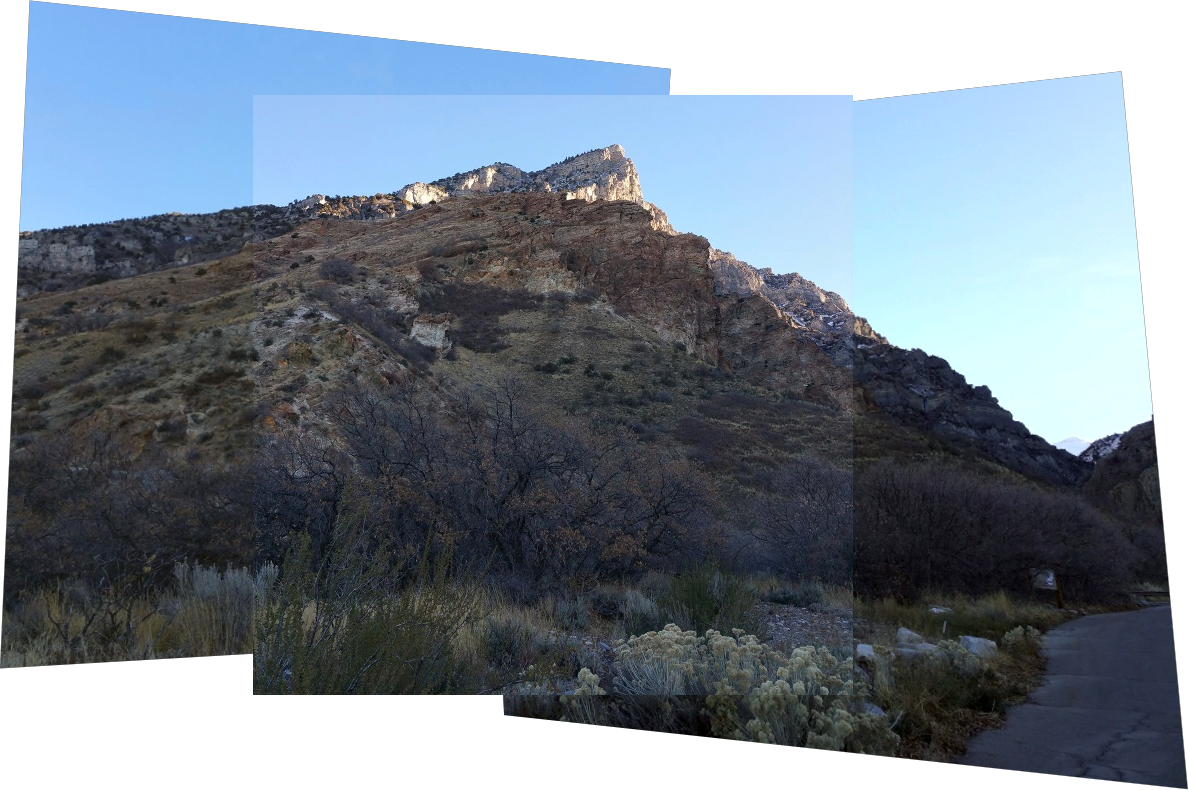
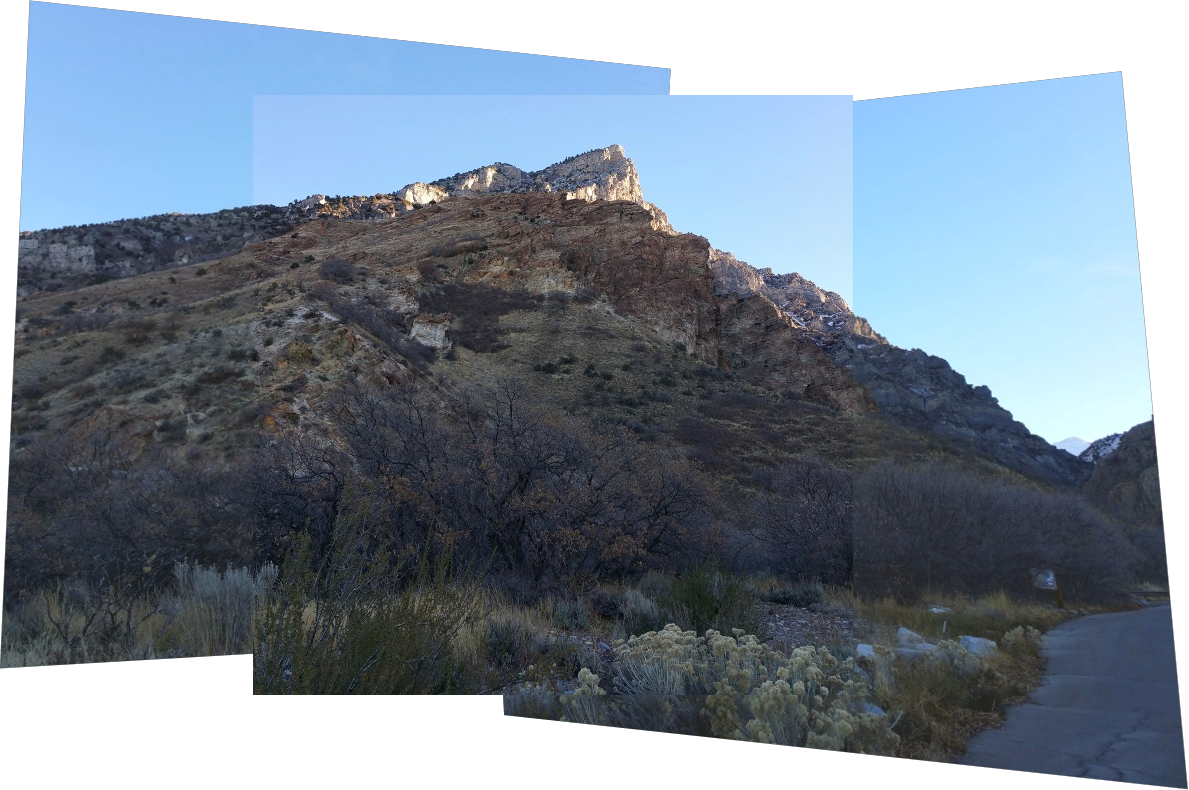
Fix color correction

Changed region(s): [[0.4045, 0.4253, 1.0, 1.0], [0.7157, 0.1215, 0.9647, 0.4253], [0.7157, 0.3646, 0.7468, 0.3949]]

diff --git a/stitcher.py b/stitcher.py
@@ -218,16 +218,24 @@ class ImageStitcher:
             log.debug('Color Correcting %s => %s', src.name, dst.name)
             src, dst = src.image, dst.image
             src_mask = np.zeros(src.shape[:2], dtype=np.uint8)
-            dst_mask = np.zeros(src.shape[:2], dtype=np.uint8)
+            dst_mask = np.zeros(dst.shape[:2], dtype=np.uint8)
 
-            H = next_H[src_idx]
-            src_corners = cv2.perspectiveTransform(
-                image_corners(dst).reshape(1, 4, 2), cv2.invert(H)[1])
-            dst_corners = cv2.perspectiveTransform(image_corners(src).reshape(1, 4, 2), H)
+            H = next_H[dst_idx]
+            src_corners = cv2.perspectiveTransform(image_corners(dst).reshape(1, 4, 2), H)
+            dst_corners = cv2.perspectiveTransform(
+                image_corners(src).reshape(1, 4, 2), cv2.invert(H)[1])
+            log.debug('Using relative H:\n%s', H)
+            log.debug('Src mask corners:\n%s', src_corners)
+            log.debug('Dst mask corners:\n%s', dst_corners)
 
             cv2.fillPoly(src_mask, np.rint(src_corners).astype(int), 255)
             cv2.fillPoly(dst_mask, np.rint(dst_corners).astype(int), 255)
 
+            if self.debug:
+                imshow(src_mask)
+                imshow(cv2.bitwise_and(src, src, mask=src_mask))
+                imshow(dst_mask)
+                imshow(cv2.bitwise_and(dst, dst, mask=dst_mask))
             src_lab = labs[src_idx]
             dst_lab = labs[dst_idx]
             # Probably a better way to do this
